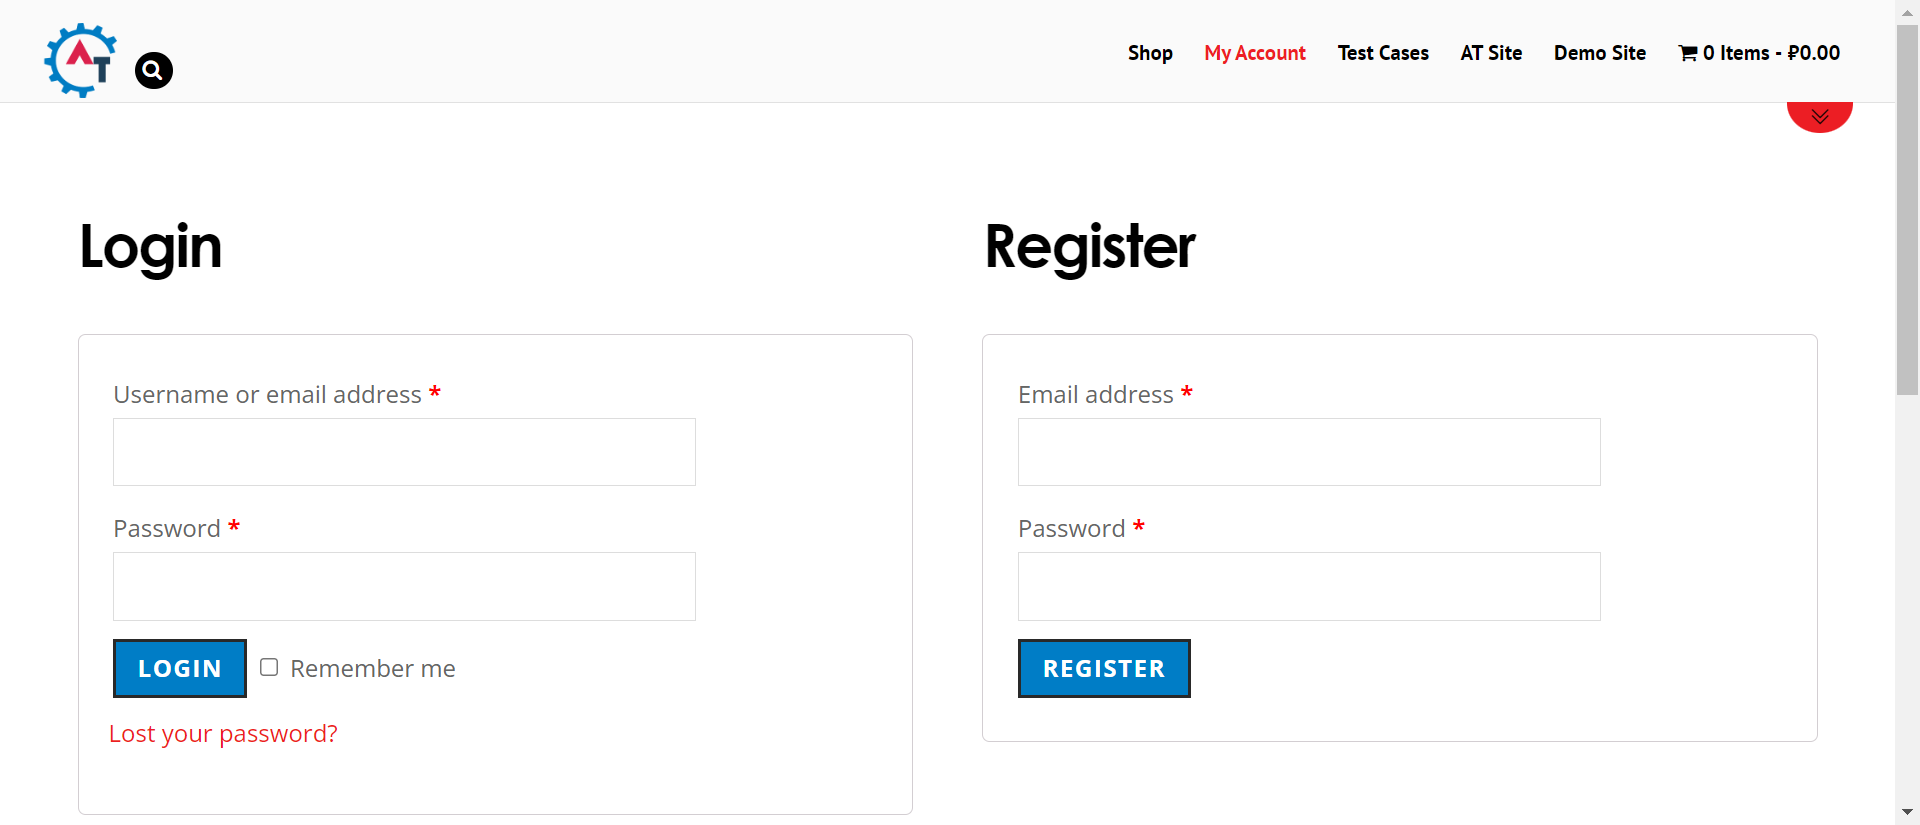
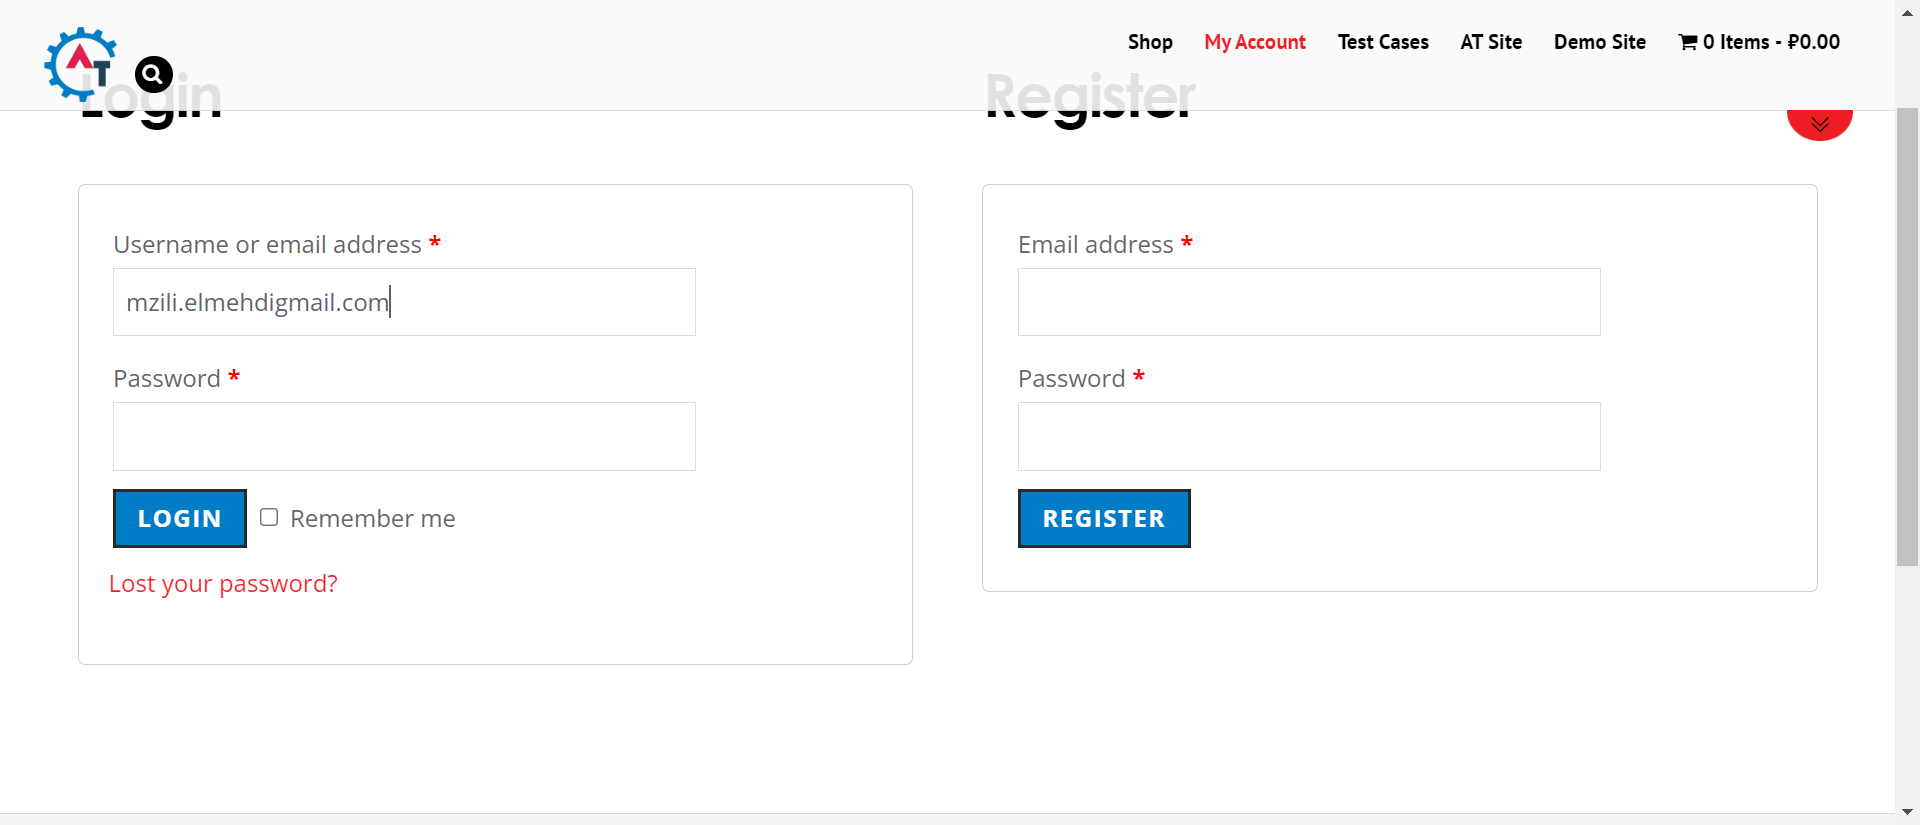
add US2 login

diff --git a/OutputResult/log.html b/OutputResult/log.html
@@ -1806,25 +1806,25 @@ function stopPropagation(event) {
 window.output = {};
 </script>
 <script type="text/javascript">
-window.output["suite"] = [1,2,3,4,[],[1,0,46142],[],[[5,0,0,[],[1,390,20752],[[1,6,7,0,0,8,0,0,[1,392,11534],[[0,9,10,0,11,12,0,0,[1,392,2],[]],[0,13,14,0,15,16,0,0,[1,394,4991],[[395,2,17]]],[0,18,14,0,19,20,0,0,[1,5386,6410],[[5386,2,21]]],[0,22,14,0,23,0,0,0,[1,11796,129],[]]]],[0,24,25,0,0,0,0,0,[1,11927,335],[[0,26,27,0,0,28,0,0,[1,11927,334],[[0,9,10,0,11,29,0,0,[1,11928,1],[]],[0,30,14,0,31,32,0,0,[1,11930,117],[]],[0,33,14,0,34,35,0,0,[1,12047,214],[[12050,2,36]]]]]]],[0,37,38,0,0,39,0,0,[1,12263,4025],[[0,40,27,0,0,41,0,0,[1,12264,3287],[[0,9,10,0,11,42,0,0,[1,12265,2],[]],[0,30,14,0,31,32,0,0,[1,12267,2942],[]],[0,43,14,0,44,45,0,0,[1,15209,342],[[15211,2,46]]]]],[0,40,27,0,0,47,0,0,[1,15551,737],[[0,9,10,0,11,42,0,0,[1,15553,2],[]],[0,30,14,0,31,32,0,0,[1,15556,35],[]],[0,43,14,0,44,45,0,0,[1,15591,696],[[15592,2,48]]]]]]],[0,49,38,0,0,0,0,0,[1,16289,1934],[[0,26,27,0,0,50,0,0,[1,16289,1934],[[0,9,10,0,11,29,0,0,[1,16290,2],[]],[0,30,14,0,31,32,0,0,[1,16292,56],[]],[0,33,14,0,34,35,0,0,[1,16348,1875],[[16350,2,51]]]]]]],[2,52,7,0,0,0,0,0,[1,18225,2915],[[0,9,10,0,11,53,0,0,[1,18225,1],[]],[0,54,14,0,55,0,0,0,[1,18226,409],[[18634,2,56]]],[0,57,14,0,58,0,0,0,[1,18635,2505],[]]]]]],[59,0,0,[],[1,21146,24992],[[1,6,7,0,0,8,0,0,[1,21149,12098],[[0,9,10,0,11,12,0,0,[1,21150,2],[]],[0,13,14,0,15,16,0,0,[1,21153,4854],[[21155,2,17]]],[0,18,14,0,19,20,0,0,[1,26008,7107],[[26009,2,21]]],[0,22,14,0,23,0,0,0,[1,33115,132],[]]]],[0,60,25,0,0,0,0,0,[1,33248,283],[[0,26,27,0,0,61,0,0,[1,33249,282],[[0,9,10,0,11,29,0,0,[1,33250,2],[]],[0,30,14,0,31,32,0,0,[1,33252,83],[]],[0,33,14,0,34,35,0,0,[1,33338,192],[[33341,2,62]]]]]]],[0,63,64,0,0,0,0,0,[1,33534,6718],[[0,65,27,0,0,0,0,0,[1,33536,15],[[0,66,14,0,67,68,0,0,[1,33537,14],[[33539,2,69]]]]],[0,26,27,0,0,70,0,0,[1,33551,4686],[[0,9,10,0,11,29,0,0,[1,33552,2],[]],[0,30,14,0,31,32,0,0,[1,33554,4458],[]],[0,33,14,0,34,35,0,0,[1,38012,224],[[38013,2,71]]]]],[0,72,10,0,73,74,0,0,[1,38237,2015],[[40252,2,75]]]]],[0,76,25,0,0,0,0,0,[1,40254,2619],[[0,26,27,0,0,77,0,0,[1,40256,2616],[[0,9,10,0,11,29,0,0,[1,40259,1],[]],[0,30,14,0,31,32,0,0,[1,40261,57],[]],[0,33,14,0,34,35,0,0,[1,40319,2552],[[40321,2,78]]]]]]],[0,79,64,0,0,0,0,0,[1,42875,389],[[0,26,27,0,0,80,0,0,[1,42876,388],[[0,9,10,0,11,29,0,0,[1,42878,2],[]],[0,30,14,0,31,32,0,0,[1,42881,60],[]],[0,33,14,0,34,35,0,0,[1,42942,321],[[42946,2,81]]]]]]],[2,52,7,0,0,0,0,0,[1,43266,2871],[[0,9,10,0,11,53,0,0,[1,43266,1],[]],[0,54,14,0,55,0,0,0,[1,43267,303],[[43569,2,82]]],[0,57,14,0,58,0,0,0,[1,43570,2566],[]]]]]]],[],[2,2,0,0]];
+window.output["suite"] = [1,2,3,4,[],[1,0,129679],[],[[5,0,0,[],[1,365,45594],[[1,6,7,0,0,8,0,0,[1,366,29152],[[0,9,10,0,11,12,0,0,[1,367,0],[]],[0,13,14,0,15,16,0,0,[1,367,4215],[[367,2,17]]],[0,18,14,0,19,20,0,0,[1,4583,24753],[[4584,2,21]]],[0,22,14,0,23,0,0,0,[1,29337,180],[]]]],[0,24,25,0,0,0,0,0,[1,29525,2652],[[0,26,27,0,0,28,0,0,[1,29532,2644],[[0,9,10,0,11,29,0,0,[1,29541,9],[]],[0,30,14,0,31,32,0,0,[1,29551,161],[]],[0,33,14,0,34,35,0,0,[1,29713,2463],[[29714,2,36]]]]]]],[0,37,38,0,0,39,0,0,[1,32178,4713],[[0,40,27,0,0,41,0,0,[1,32179,1412],[[0,9,10,0,11,42,0,0,[1,32181,1],[]],[0,30,14,0,31,32,0,0,[1,32182,143],[]],[0,43,14,0,44,45,0,0,[1,32325,1266],[[32328,2,46]]]]],[0,40,27,0,0,47,0,0,[1,33592,286],[[0,9,10,0,11,42,0,0,[1,33593,2],[]],[0,30,14,0,31,32,0,0,[1,33595,38],[]],[0,43,14,0,44,45,0,0,[1,33634,244],[[33635,2,48]]]]],[0,49,10,0,50,51,0,0,[1,33878,3013],[[36891,2,52]]]]],[0,53,38,0,0,0,0,0,[1,36893,3266],[[0,26,27,0,0,54,0,0,[1,36893,3266],[[0,9,10,0,11,29,0,0,[1,36895,1],[]],[0,30,14,0,31,32,0,0,[1,36896,1227],[]],[0,33,14,0,34,35,0,0,[1,38123,2035],[[38124,2,55]]]]]]],[0,49,10,0,50,51,0,0,[1,40160,3014],[[43174,2,52]]],[2,56,7,0,0,0,0,0,[1,43175,2783],[[0,9,10,0,11,57,0,0,[1,43175,1],[]],[0,58,14,0,59,0,0,0,[1,43176,176],[[43352,2,60]]],[0,61,14,0,62,0,0,0,[1,43352,2606],[]]]]]],[63,0,0,[],[1,45961,43493],[[1,6,7,0,0,8,0,0,[1,45962,28927],[[0,9,10,0,11,12,0,0,[1,45962,1],[]],[0,13,14,0,15,16,0,0,[1,45964,4482],[[45964,2,17]]],[0,18,14,0,19,20,0,0,[1,50446,24303],[[50447,2,21]]],[0,22,14,0,23,0,0,0,[1,74750,138],[]]]],[0,24,25,0,0,0,0,0,[1,74895,2599],[[0,26,27,0,0,28,0,0,[1,74897,2597],[[0,9,10,0,11,29,0,0,[1,74899,1],[]],[0,30,14,0,31,32,0,0,[1,74901,157],[]],[0,33,14,0,34,35,0,0,[1,75059,2435],[[75060,2,36]]]]]]],[0,64,38,0,0,65,0,0,[1,77496,911],[[0,40,27,0,0,66,0,0,[1,77496,711],[[0,9,10,0,11,42,0,0,[1,77496,1],[]],[0,30,14,0,31,32,0,0,[1,77497,67],[]],[0,43,14,0,44,45,0,0,[1,77564,643],[[77565,2,67]]]]],[0,40,27,0,0,68,0,0,[1,78207,199],[[0,9,10,0,11,42,0,0,[1,78208,1],[]],[0,30,14,0,31,32,0,0,[1,78210,40],[]],[0,43,14,0,44,45,0,0,[1,78251,155],[[78252,2,69]]]]]]],[0,70,38,0,0,0,0,0,[1,78408,5273],[[0,26,27,0,0,71,0,0,[1,78409,5271],[[0,9,10,0,11,29,0,0,[1,78410,1],[]],[0,30,14,0,31,32,0,0,[1,78411,30],[]],[0,33,14,0,34,35,0,0,[1,78441,5239],[[78443,2,72]]]]]]],[0,49,10,0,50,51,0,0,[1,83683,3016],[[86697,2,52]]],[2,56,7,0,0,0,0,0,[1,86703,2751],[[0,9,10,0,11,57,0,0,[1,86703,1],[]],[0,58,14,0,59,0,0,0,[1,86705,261],[[86966,2,73]]],[0,61,14,0,62,0,0,0,[1,86968,2486],[]]]]]],[74,0,0,[],[1,89456,40215],[[1,6,7,0,0,8,0,0,[1,89456,24061],[[0,9,10,0,11,12,0,0,[1,89457,0],[]],[0,13,14,0,15,16,0,0,[1,89458,4141],[[89458,2,17]]],[0,18,14,0,19,20,0,0,[1,93600,19779],[[93601,2,21]]],[0,22,14,0,23,0,0,0,[1,113379,138],[]]]],[0,75,25,0,0,0,0,0,[1,113518,319],[[0,26,27,0,0,76,0,0,[1,113520,317],[[0,9,10,0,11,29,0,0,[1,113522,2],[]],[0,30,14,0,31,32,0,0,[1,113524,148],[]],[0,33,14,0,34,35,0,0,[1,113673,163],[[113678,2,77]]]]]]],[0,78,79,0,0,0,0,0,[1,113837,11366],[[0,80,27,0,0,0,0,0,[1,113838,48],[[0,81,14,0,82,83,0,0,[1,113840,46],[[113842,2,84]]]]],[0,26,27,0,0,85,0,0,[1,113887,9311],[[0,9,10,0,11,29,0,0,[1,113888,3],[]],[0,30,14,0,31,32,0,0,[1,113891,9219],[]],[0,33,14,0,34,35,0,0,[1,123110,88],[[123112,2,86]]]]],[0,49,10,0,50,87,0,0,[1,123199,2003],[[125202,2,88]]]]],[0,89,25,0,0,0,0,0,[1,125204,1587],[[0,26,27,0,0,90,0,0,[1,125204,1587],[[0,9,10,0,11,29,0,0,[1,125205,1],[]],[0,30,14,0,31,32,0,0,[1,125206,24],[]],[0,33,14,0,34,35,0,0,[1,125230,1561],[[125230,2,91]]]]]]],[0,92,79,0,0,0,0,0,[1,126792,136],[[0,26,27,0,0,93,0,0,[1,126793,135],[[0,9,10,0,11,29,0,0,[1,126794,2],[]],[0,30,14,0,31,32,0,0,[1,126796,32],[]],[0,33,14,0,34,35,0,0,[1,126829,99],[[126830,2,94]]]]]]],[2,56,7,0,0,0,0,0,[1,126930,2725],[[0,9,10,0,11,57,0,0,[1,126932,1],[]],[0,58,14,0,59,0,0,0,[1,126934,267],[[127201,2,95]]],[0,61,14,0,62,0,0,0,[1,127201,2453],[]]]]]]],[],[3,3,0,0]];
 </script>
 <script type="text/javascript">
 window.output["strings"] = [];
 </script>
 <script type="text/javascript">
-window.output["strings"] = window.output["strings"].concat(["*","*testSuite","*C:\\Formation\\Git1-RBF\\project_Test_By_RobotFramework\\Suites\\REC\\testSuite.robot","*../Suites/REC/testSuite.robot","*<p>ce fichier nous aide à faire executer un test\x3c/p>","*regiter test","*ouvrir navigateur","*Setup_Teardown","*url=${urlTest}","*Log To Console","*BuiltIn","*<p>Logs the given message to the console.\x3c/p>","*message=Oppening ${url}","*Open Browser","*SeleniumLibrary","*<p>Opens a new browser instance to the optional <code>url\x3c/code>.\x3c/p>","*url=about:blank, browser=chrome","*Opening browser 'chrome' to base url 'about:blank'.","*Go To","*<p>Navigates the current browser window to the provided <code>url\x3c/code>.\x3c/p>","*${url}","*Opening url '<a href=\"http://practice.automationtesting.in/\">http://practice.automationtesting.in/\x3c/a>'","*Maximize Browser Window","*<p>Maximizes current browser window.\x3c/p>","*click on the myAccount button","*homePage","*click Web Element","*Utils","*locator=${xpath.goToMyAccount}, timeout=10","*message=clique sur l'element : ${locator}","*Wait Until Page Contains Element","*<p>Waits until the element <code>locator\x3c/code> appears on the current page.\x3c/p>","*locator=${locator}, timeout=${timeout}","*Click Element","*<p>Click the element identified by <code>locator\x3c/code>.\x3c/p>","*locator=${locator}","*Clicking element '//a[contains(text(),'My Account')]'.","*register","*loginPage","*hajartaouil1test@gmail.com, TestOGG12345!@hajartaouiltest1998","*input in Web Element","*locator=${xpath.fieldRegisterEmail}, timeout=5s, text=${username}","*message=Saisie du text : ${text} sur l'element ${locator}","*Input Text","*<p>Types the given <code>text\x3c/code> into the text field identified by <code>locator\x3c/code>.\x3c/p>","*locator=${locator}, text=${text}","*Typing text 'hajartaouil1test@gmail.com' into text field '//input[@id='reg_email']'.","*locator=${xpath.fieldRegisterPassword}, timeout=5s, text=${password}","*Typing text 'TestOGG12345!@hajartaouiltest1998' into text field '//input[@id='reg_password']'.","*Click register","*locator=${xpath.registerButton}, timeout=20s","*Clicking element '//input[@value='Register']'.","*fermer navigateur","*message=closing browser","*Capture Page Screenshot","*<p>Takes a screenshot of the current page and embeds it into a log file.\x3c/p>","*\x3c/td>\x3c/tr><tr><td colspan=\"3\"><a href=\"selenium-screenshot-53.png\"><img src=\"selenium-screenshot-53.png\" width=\"800px\">\x3c/a>","*Close Browser","*<p>Closes the current browser.\x3c/p>","*shopping test","*click on the shop button","*locator=${xpath.shopButton}, timeout=5","*Clicking element '//li[@id='menu-item-40']/a'.","*click on add to basket","*ShopPage","*Scroll en bas","*Execute Javascript","*<p>Executes the given JavaScript code with possible arguments.\x3c/p>","*window.scrollTo(0, window.scrollY+500)","*Executing JavaScript:\nwindow.scrollTo(0, window.scrollY+500)\nWithout any arguments.","*locator=${xpath.addToCardButton}, timeout=5","*Clicking element '//a[@href='/shop/?add-to-cart=169']'.","*Sleep","*<p>Pauses the test executed for the given time.\x3c/p>","*2","*Slept 2 seconds","*click on the start shopping button","*locator=${xpath.startShopping}, timeout=5","*Clicking element '//li[@id='wpmenucartli']/a'.","*click on remove from basket","*locator=${xpath.removeProductButton}, timeout=5","*Clicking element '//td[@class='product-remove']/a'.","*\x3c/td>\x3c/tr><tr><td colspan=\"3\"><a href=\"selenium-screenshot-54.png\"><img src=\"selenium-screenshot-54.png\" width=\"800px\">\x3c/a>"]);
+window.output["strings"] = window.output["strings"].concat(["*","*testSuite","*C:\\Formation\\Git1-RBF\\project_Test_By_RobotFramework\\Suites\\REC\\testSuite.robot","*../Suites/REC/testSuite.robot","*<p>ce fichier nous aide à faire executer un test\x3c/p>","*regiter test","*ouvrir navigateur","*Setup_Teardown","*url=${urlTest}","*Log To Console","*BuiltIn","*<p>Logs the given message to the console.\x3c/p>","*message=Oppening ${url}","*Open Browser","*SeleniumLibrary","*<p>Opens a new browser instance to the optional <code>url\x3c/code>.\x3c/p>","*url=about:blank, browser=chrome","*Opening browser 'chrome' to base url 'about:blank'.","*Go To","*<p>Navigates the current browser window to the provided <code>url\x3c/code>.\x3c/p>","*${url}","*Opening url '<a href=\"http://practice.automationtesting.in/\">http://practice.automationtesting.in/\x3c/a>'","*Maximize Browser Window","*<p>Maximizes current browser window.\x3c/p>","*click on the myAccount button","*homePage","*click Web Element","*Utils","*locator=${xpath.goToMyAccount}, timeout=10","*message=clique sur l'element : ${locator}","*Wait Until Page Contains Element","*<p>Waits until the element <code>locator\x3c/code> appears on the current page.\x3c/p>","*locator=${locator}, timeout=${timeout}","*Click Element","*<p>Click the element identified by <code>locator\x3c/code>.\x3c/p>","*locator=${locator}","*Clicking element '//a[contains(text(),'My Account')]'.","*register","*loginPage","*username=hajartaouil1tesjhgt@gmail.com, password=TestOGG12345!@hajartaouiltest1998","*input in Web Element","*locator=${xpath.fieldRegisterEmail}, timeout=5s, text=${username}","*message=Saisie du text : ${text} sur l'element ${locator}","*Input Text","*<p>Types the given <code>text\x3c/code> into the text field identified by <code>locator\x3c/code>.\x3c/p>","*locator=${locator}, text=${text}","*Typing text 'hajartaouil1tesjhgt@gmail.com' into text field '//input[@id='reg_email']'.","*locator=${xpath.fieldRegisterPassword}, timeout=5s, text=${password}","*Typing text 'TestOGG12345!@hajartaouiltest1998' into text field '//input[@id='reg_password']'.","*Sleep","*<p>Pauses the test executed for the given time.\x3c/p>","*3","*Slept 3 seconds","*Click register","*locator=${xpath.registerButton}, timeout=20s","*Clicking element '//input[@value='Register']'.","*fermer navigateur","*message=closing browser","*Capture Page Screenshot","*<p>Takes a screenshot of the current page and embeds it into a log file.\x3c/p>","*\x3c/td>\x3c/tr><tr><td colspan=\"3\"><a href=\"selenium-screenshot-16.png\"><img src=\"selenium-screenshot-16.png\" width=\"800px\">\x3c/a>","*Close Browser","*<p>Closes the current browser.\x3c/p>","*login test","*login","*username=mzili.elmehdi@gmail.com, password=Hola123456?","*locator=${xpath.fieldLoginUserName}, timeout=5s, text=${username}","*Typing text 'mzili.elmehdi@gmail.com' into text field '//input[contains(@name,'username')]'.","*locator=${xpath.fieldLoginPassword}, timeout=5s, text=${password}","*Typing text 'Hola123456?' into text field '//input[@id='password']'.","*click login","*locator=${xpath.loginButton}, timeout=20s","*Clicking element '//input[@type='submit' and @name='login']'.","*\x3c/td>\x3c/tr><tr><td colspan=\"3\"><a href=\"selenium-screenshot-17.png\"><img src=\"selenium-screenshot-17.png\" width=\"800px\">\x3c/a>","*shopping test","*click on the shop button","*locator=${xpath.shopButton}, timeout=5","*Clicking element '//li[@id='menu-item-40']/a'.","*click on add to basket","*ShopPage","*Scroll en bas","*Execute Javascript","*<p>Executes the given JavaScript code with possible arguments.\x3c/p>","*window.scrollTo(0, window.scrollY+500)","*Executing JavaScript:\nwindow.scrollTo(0, window.scrollY+500)\nWithout any arguments.","*locator=${xpath.addToCardButton}, timeout=5","*Clicking element '//a[@href='/shop/?add-to-cart=169']'.","*2","*Slept 2 seconds","*click on the start shopping button","*locator=${xpath.startShopping}, timeout=5","*Clicking element '//li[@id='wpmenucartli']/a'.","*click on remove from basket","*locator=${xpath.removeProductButton}, timeout=5","*Clicking element '//td[@class='product-remove']/a'.","*\x3c/td>\x3c/tr><tr><td colspan=\"3\"><a href=\"selenium-screenshot-18.png\"><img src=\"selenium-screenshot-18.png\" width=\"800px\">\x3c/a>"]);
 </script>
 <script type="text/javascript">
-window.output["stats"] = [[{"elapsed":"00:00:46","fail":0,"label":"All Tests","pass":2,"skip":0}],[],[{"elapsed":"00:00:46","fail":0,"id":"s1","label":"testSuite","name":"testSuite","pass":2,"skip":0}]];
+window.output["stats"] = [[{"elapsed":"00:02:09","fail":0,"label":"All Tests","pass":3,"skip":0}],[],[{"elapsed":"00:02:10","fail":0,"id":"s1","label":"testSuite","name":"testSuite","pass":3,"skip":0}]];
 </script>
 <script type="text/javascript">
 window.output["errors"] = [];
 </script>
 <script type="text/javascript">
-window.output["baseMillis"] = 1696256436992;
+window.output["baseMillis"] = 1696343841139;
 </script>
 <script type="text/javascript">
-window.output["generated"] = 46180;
+window.output["generated"] = 129729;
 </script>
 <script type="text/javascript">
 window.output["expand_keywords"] = null;

diff --git a/OutputResult/report.html b/OutputResult/report.html
@@ -1629,22 +1629,22 @@ storage = function () {
 window.output = {};
 </script>
 <script type="text/javascript">
-window.output["suite"] = [1,2,3,4,[],[1,0,46142],[],[[5,0,0,[],[1,390,20752],[]],[6,0,0,[],[1,21146,24992],[]]],[],[2,2,0,0]];
+window.output["suite"] = [1,2,3,4,[],[1,0,129679],[],[[5,0,0,[],[1,365,45594],[]],[6,0,0,[],[1,45961,43493],[]],[7,0,0,[],[1,89456,40215],[]]],[],[3,3,0,0]];
 </script>
 <script type="text/javascript">
 window.output["strings"] = [];
 </script>
 <script type="text/javascript">
-window.output["strings"] = window.output["strings"].concat(["*","*testSuite","*C:\\Formation\\Git1-RBF\\project_Test_By_RobotFramework\\Suites\\REC\\testSuite.robot","*../Suites/REC/testSuite.robot","*<p>ce fichier nous aide à faire executer un test\x3c/p>","*regiter test","*shopping test"]);
+window.output["strings"] = window.output["strings"].concat(["*","*testSuite","*C:\\Formation\\Git1-RBF\\project_Test_By_RobotFramework\\Suites\\REC\\testSuite.robot","*../Suites/REC/testSuite.robot","*<p>ce fichier nous aide à faire executer un test\x3c/p>","*regiter test","*login test","*shopping test"]);
 </script>
 <script type="text/javascript">
-window.output["stats"] = [[{"elapsed":"00:00:46","fail":0,"label":"All Tests","pass":2,"skip":0}],[],[{"elapsed":"00:00:46","fail":0,"id":"s1","label":"testSuite","name":"testSuite","pass":2,"skip":0}]];
+window.output["stats"] = [[{"elapsed":"00:02:09","fail":0,"label":"All Tests","pass":3,"skip":0}],[],[{"elapsed":"00:02:10","fail":0,"id":"s1","label":"testSuite","name":"testSuite","pass":3,"skip":0}]];
 </script>
 <script type="text/javascript">
-window.output["baseMillis"] = 1696256436992;
+window.output["baseMillis"] = 1696343841139;
 </script>
 <script type="text/javascript">
-window.output["generated"] = 46180;
+window.output["generated"] = 129729;
 </script>
 <script type="text/javascript">
 window.output["expand_keywords"] = null;
